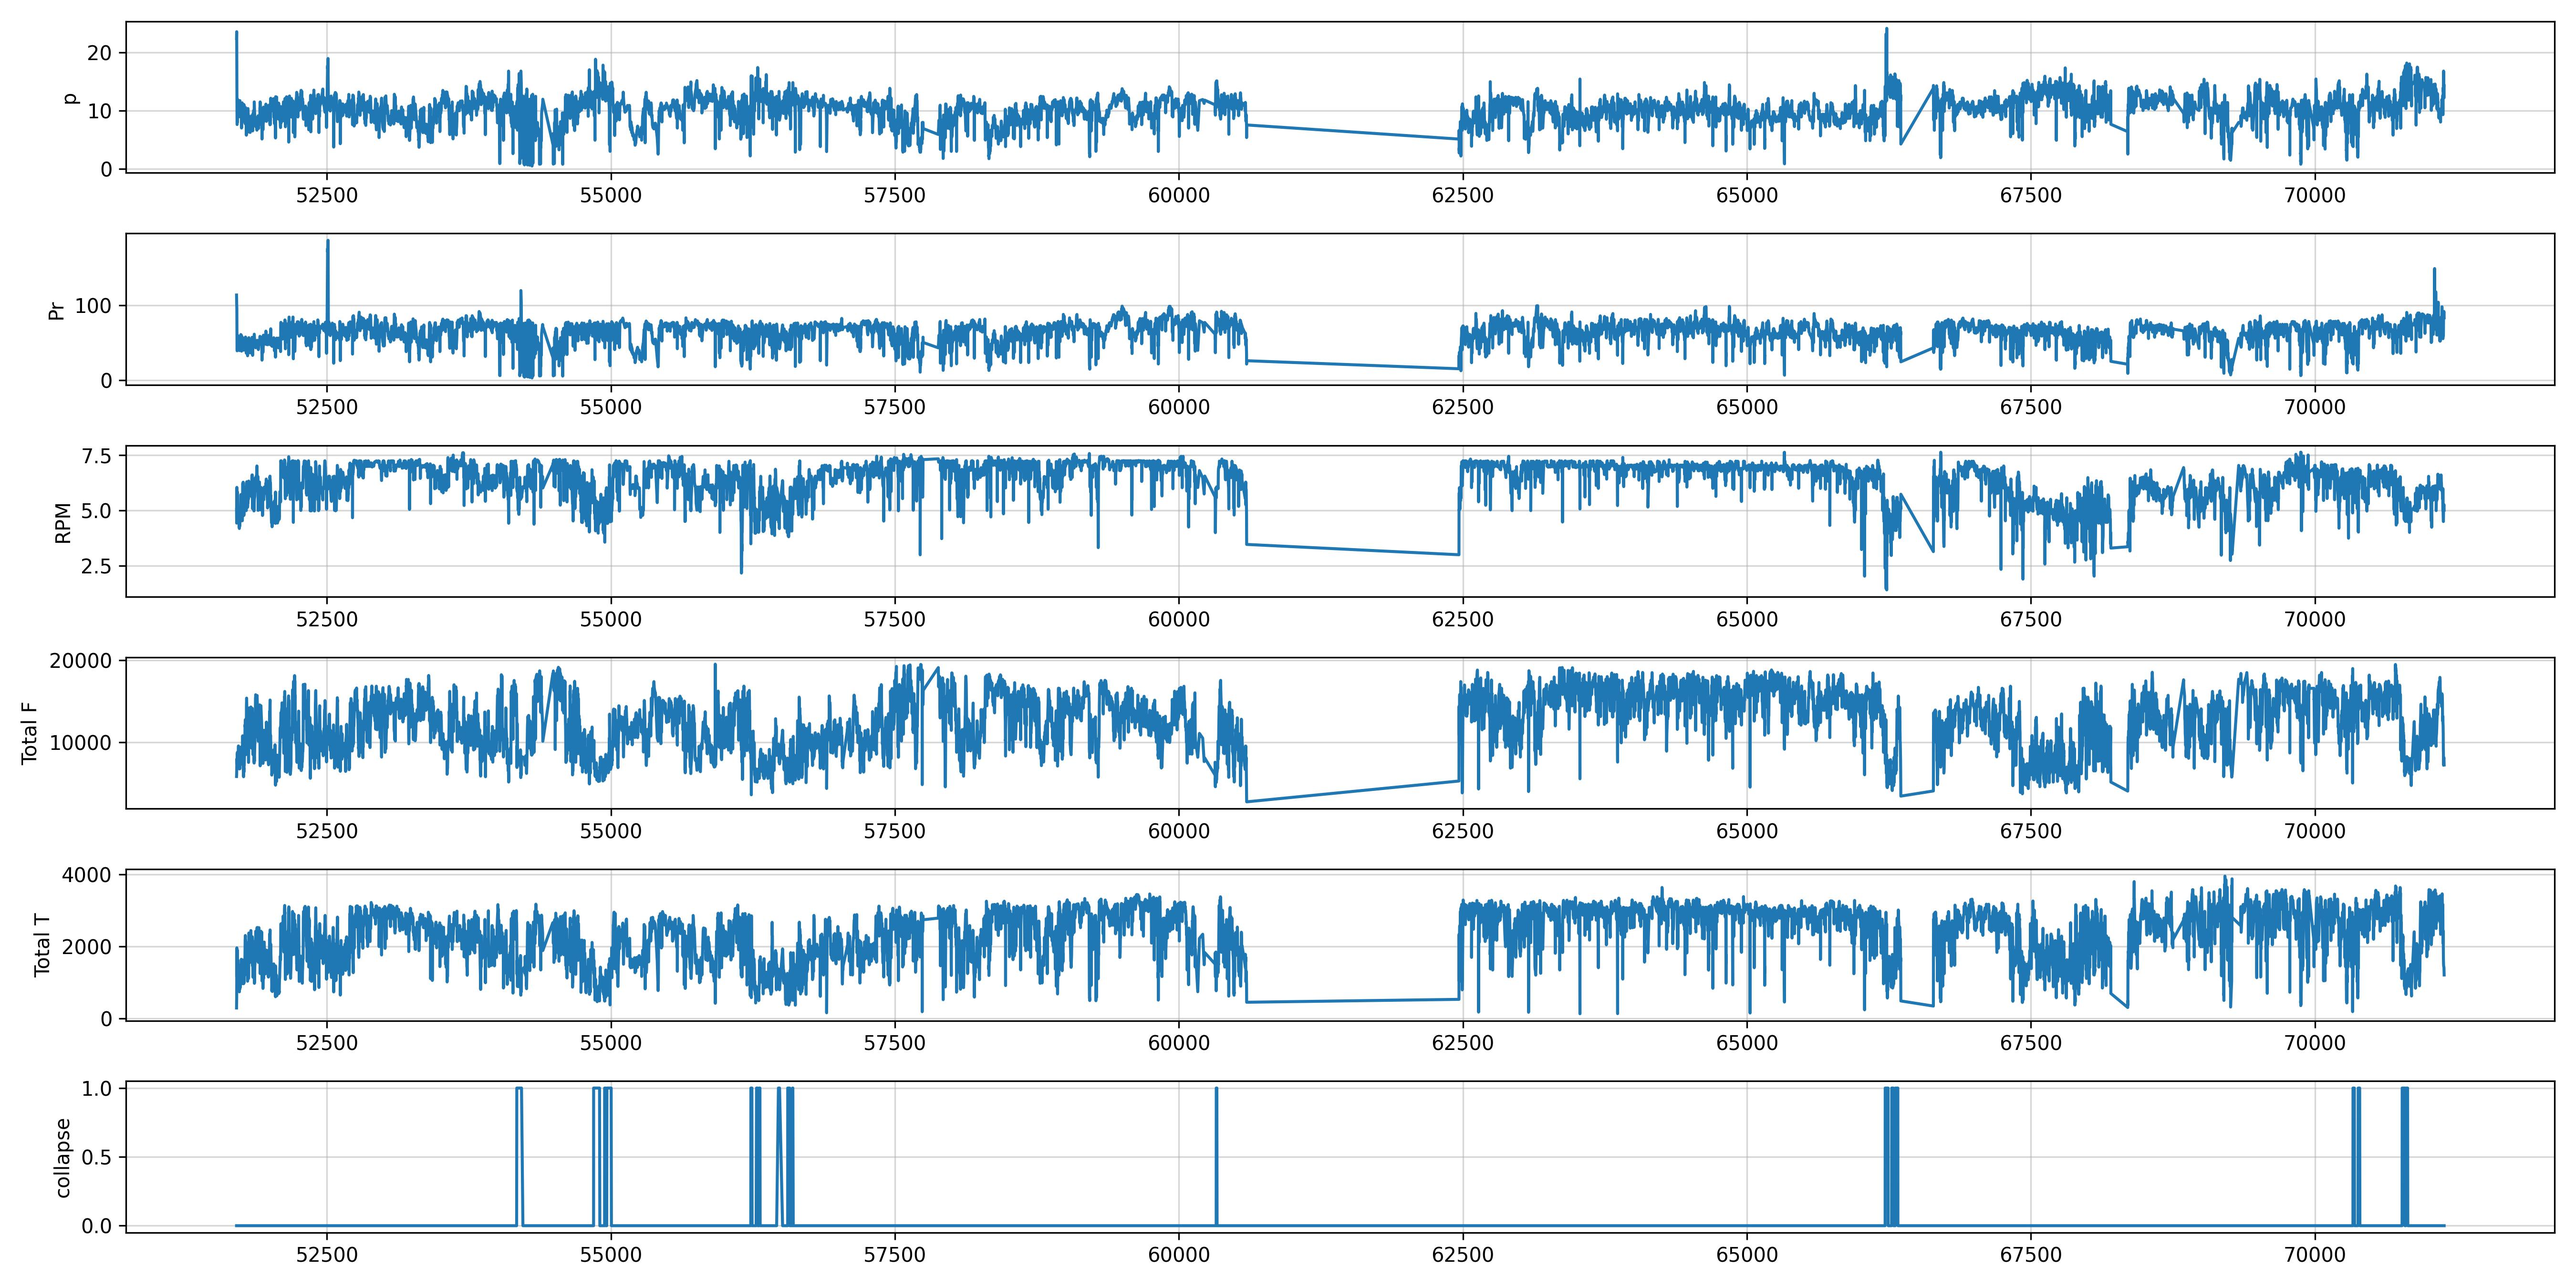
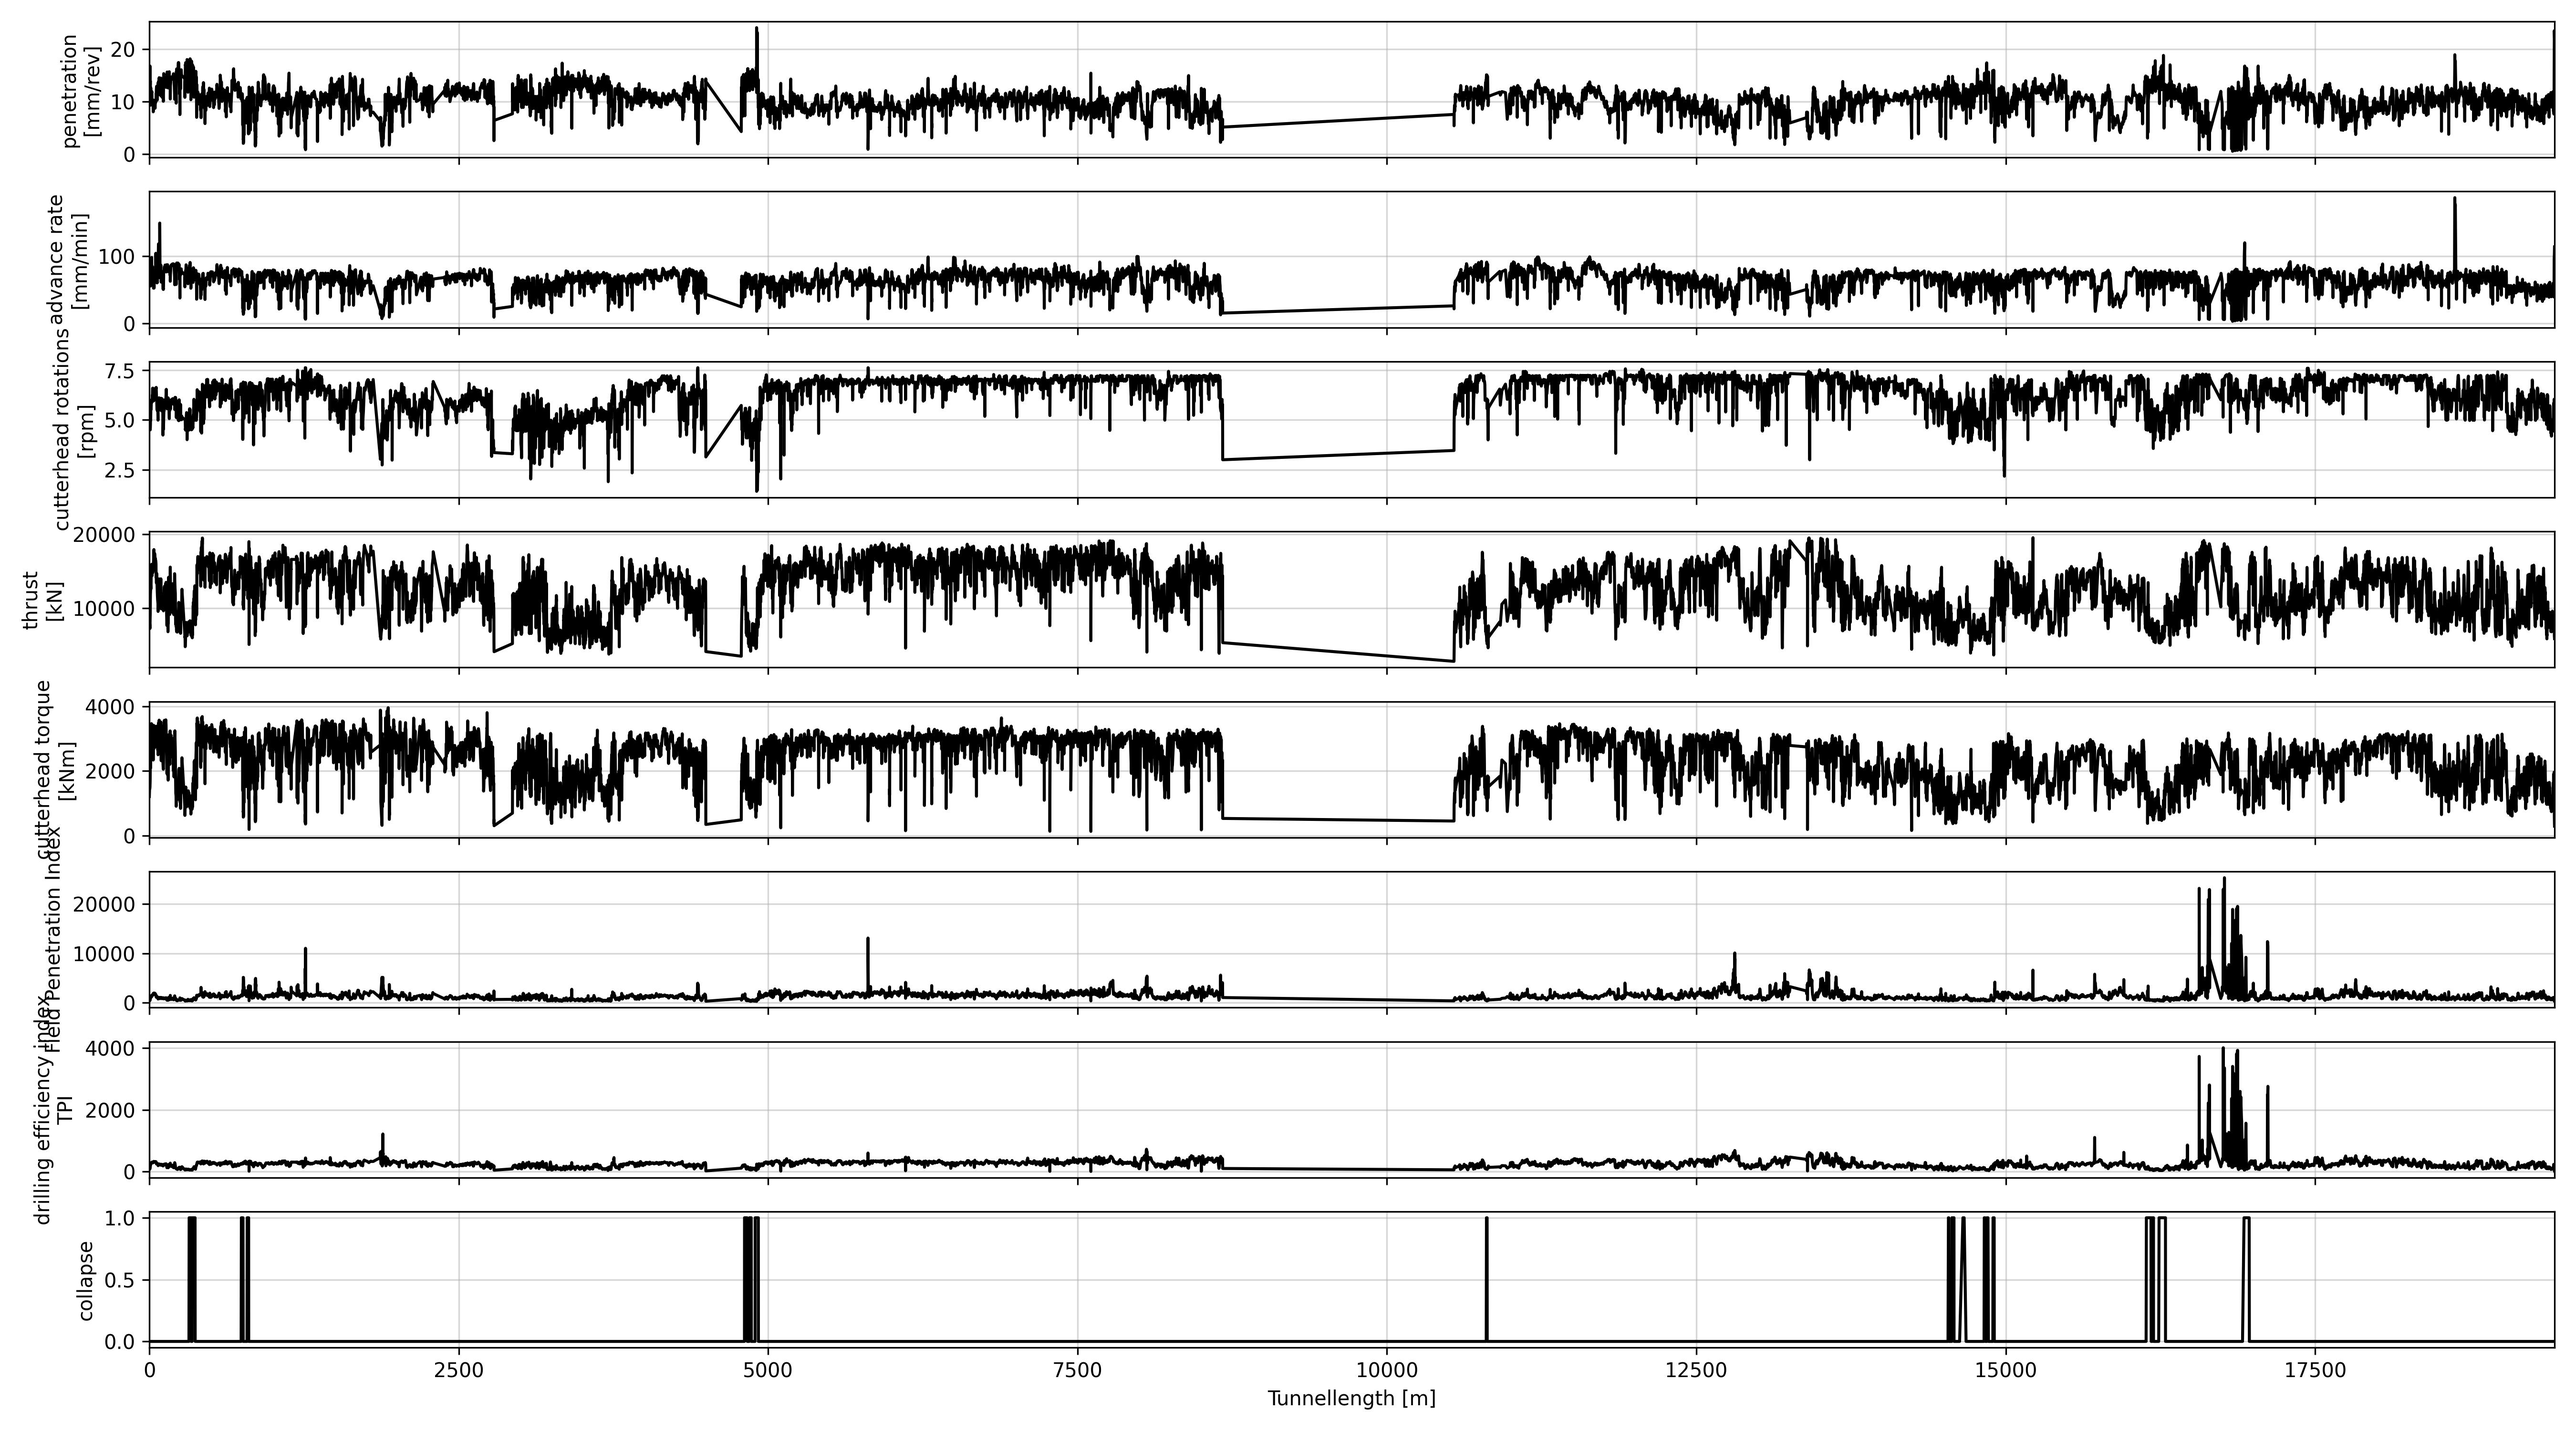
Add ML prediction and plots for tunnel collapse analysis
Introduced data discretization, collapse section assignment, and machine learning prediction using HistGradientBoostingClassifier. Added plotting for line plots, pair plots, and confusion matrix, saving the resulting images. Improved data preprocessing, feature selection, and visualization for tunnel collapse analysis.

Changed region(s): [[0.0, 0.0, 0.9956, 0.9956]]

diff --git a/src/A_main.py b/src/A_main.py
@@ -1,8 +1,16 @@
 
+import sys, os
+from tqdm import tqdm
+
 import matplotlib.pyplot as plt
 import numpy as np
 import pandas as pd
-from sklearn.ensemble import RandomForestClassifier
+from sklearn.ensemble import RandomForestClassifier, HistGradientBoostingClassifier
+from sklearn.model_selection import train_test_split
+from sklearn.metrics import accuracy_score, confusion_matrix
+
+# ensure that the correct starting location for the script is set
+sys.path.append(os.path.dirname(__file__))
 
 from X_library import dictionaries
 
@@ -12,9 +20,50 @@ from X_library import dictionaries
 ################################
 
 
+def discretize(dataframe: pd.DataFrame, interval: float, columns: list,
+               chain_col: str) -> pd.DataFrame:
+    """
+    XXXXX
+    """
+    columns = columns + ['collapse']
+    # Ensure we’re working on a copy
+    data = dataframe.copy()
+
+    intervals = np.arange(data[chain_col].min(), data[chain_col].max(),
+                          interval)
+    df_temps = []
+
+    for i in tqdm(range(len(intervals)-1)):
+        tl_start, tl_stop = intervals[i], intervals[i+1]
+        mask = (data[chain_col] >= tl_start) & (data[chain_col] < tl_stop)
+        chunk = data.loc[mask, columns]
+
+        if len(chunk) == 1:
+            s = chunk.iloc[0].copy()
+            n_dp = 1
+        elif len(ids) > 1:
+            s = chunk.mean(axis=0)
+            s['collapse'] = round(s['collapse'], 0)
+            n_dp = len(chunk)
+        else:
+            # empty -> NaNs for the requested columns
+            s = pd.Series(index=columns, dtype='float64')
+            n_dp = 0
+
+        # Add bin metadata
+        s['start [m]'] = tl_start
+        s['stop [m]'] = tl_stop
+        s['n dp'] = n_dp
+        df_temps.append(s)
+
+    return pd.DataFrame(df_temps).reset_index(drop=True)
+
+
 def plot_param(ax, dataframe, parameter):
-    ax.plot(dataframe['Chainage'], dataframe[parameter])
+    ax.plot(dataframe['Tunnellength [m]'], dataframe[parameter], color='black')
     ax.set_ylabel(parameter)
+    ax.set_xlim(left=dataframe['Tunnellength [m]'].min(),
+                right=dataframe['Tunnellength [m]'].max())
     # ax.legend()
     ax.grid(alpha=0.5)
 
@@ -23,8 +72,30 @@ def plot_param(ax, dataframe, parameter):
 # Static variables
 ################################
 
+# data from paper "Diagnosing tunnel collapse sections based on TBM tunneling
+# big data and deep learning: A case study on the Yinsong Project, China" by
+# Chen et al. (2021)
+
 DATA_FOLDER = r'C:\Users\GEr\OneDrive - NGI\Research\UIDC2026_NGI\YS-IWHR-main\The data analyzed in section 5&6'
 ANALYSES_FOLDER = r'C:\Users\GEr\OneDrive - NGI\Research\UIDC2026_NGI\analyses'
+COLLAPSE_EXCEL = r'C:\Users\GEr\OneDrive - NGI\Research\UIDC2026_NGI\data\collapses.xlsx'
+INPUT_FEATURES = [
+    'T(P,V/N)-b1', 'T(P,V/N)-b2', 'T(P,V/N)-a', 'T(P,V/N)-R2',
+                  'T(V/N)-b', 'T(V/N)-a', 'T(V/N)-R2', 'P(V)-slope', 'P(V)-a',
+                  'P(V)-R2', 'Wp(WT)-slope', 'Wp(WT)-a', 'Wp(WT)-R2',
+                   'T(P)-slope', 'T(P)-a', 'T(P)-R2', 'T-m', 'T-slope', 'T-R2',
+                   'P-m', 'P-slope', 'P-R2', 'V-m', 'V-slope', 'V-R2',
+                   'Vs-m', 'Vs-slope', 'TN-m', 'TN-slope', 'TN-R2', 'PV-m',
+                   'PV-slope', 'PV-R2', 'V/N-m', 'V/N-slope', 'V/N-R2',
+                   'N-m', 'Ns-m', 'I-m', 'V0-m', 'V/Vs-min', 'T/P-min',
+                   'T/P-max', 'T/P-m', 'T/P-std', 'Tpi-min', 'Tpi-max',
+                   'Tpi-m', 'Tpi-std', 'Fpi-min', 'Fpi-max', 'Fpi-m',
+                   'Fpi-std', 'Tpi-slope', 'Tpi-R2:1-sse/sst', 'WT/WP-slope',
+                   'WT/WP-R2:1-sse/sst', 'T(P*V/N)-slope', 'T(P*V/N)-a',
+                   'T(P*V/N)-R2', 'Fpi', 'P*V/N', 'T/P', 'Tpi', 'dt', 'dz',
+                   'workP', 'workT',
+                    'Total T', 'Total F', 'RPM', 'Pr', 'p'
+                    ]
 
 
 ################################
@@ -49,55 +120,83 @@ df.sort_values(by='Chainage', ascending=False, inplace=True)
 df.index = np.arange(len(df))
 
 # assign collapse sections to data
+df_collapses = pd.read_excel(COLLAPSE_EXCEL)
 df['collapse'] = 0
-
-df_collapses = pd.read_excel(r'C:\Users\GEr\OneDrive - NGI\Research\UIDC2026_NGI\data\collapses.xlsx')
-
 for i in range(len(df_collapses)):
     ids = df[(df['Chainage'] <= df_collapses.iloc[i]['Chainage start [m]']) & 
              (df['Chainage'] >= df_collapses.iloc[i]['Chainage end [m]'])].index
     df.loc[ids, 'collapse'] = 1
 
+# get tunnellength starting from 0 for conveniance
+df['Tunnellength [m]'] = df['Chainage'] - df['Chainage'].min()
+df['Tunnellength [m]'] = (df['Tunnellength [m]'] - df['Tunnellength [m]'].max()) * -1
+
+# discretize dataset
+# df_disc = discretize(df, 1, INPUT_FEATURES, chain_col='Tunnellength [m]')
+# df_disc = df_disc[df_disc['n dp'] > 0]
+# df = df_disc
+# print(np.unique(df_disc['collapse'], return_counts=True))
 
 ################################
 # prediction
 ################################
 
-classifier = RandomForestClassifier()
+X = df[INPUT_FEATURES].values
+y = df['collapse'].values
 
-print(ghjklø)
+print(np.unique(y, return_counts=True))
 
+X_train, X_test, y_train, y_test = train_test_split(
+    X, y, test_size=0.33, random_state=42)
+
+clf = HistGradientBoostingClassifier()
+# clf = RandomForestClassifier()
+
+clf.fit(X_train, y_train)
+
+y_pred = clf.predict(X_test)
+
+print(accuracy_score(y_test, y_pred))
+
+cm = np.round(confusion_matrix(y_test, y_pred, normalize='true') * 100, 0)
+print(cm)
 
 ################################
 # plotting
 ################################
 
+# rename column names to be more readable
+df.rename({'p': 'penetration\n[mm/rev]',
+           'Pr': 'advance rate\n[mm/min]',
+           'RPM': 'cutterhead rotations\n[rpm]',
+           'Total T': 'cutterhead torque\n[kNm]',
+           'Total F': 'thrust\n[kN]',
+           'Fpi': 'Field Penetration Index',
+           'Tpi': 'drilling efficiency index\nTPI'}, axis=1, inplace=True)
 
 # lineplot
-fig, axs = plt.subplots(ncols=1, nrows=6, figsize=(18, 9))
+fig, axs = plt.subplots(ncols=1, nrows=8, figsize=(18, 10), sharex=True)
 
-plot_param(axs[0], df, 'p')
-
-plot_param(axs[1], df, 'Pr')
-
-plot_param(axs[2], df, 'RPM')
-
-plot_param(axs[3], df, 'Total F')
-
-plot_param(axs[4], df, 'Total T')
-
-plot_param(axs[5], df, 'collapse')
+plot_param(axs[0], df, 'penetration\n[mm/rev]')
+plot_param(axs[1], df, 'advance rate\n[mm/min]')
+plot_param(axs[2], df, 'cutterhead rotations\n[rpm]')
+plot_param(axs[3], df, 'thrust\n[kN]')
+plot_param(axs[4], df, 'cutterhead torque\n[kNm]')
+plot_param(axs[5], df, 'Field Penetration Index')
+plot_param(axs[6], df, 'drilling efficiency index\nTPI')
+plot_param(axs[7], df, 'collapse')
+axs[7].set_xlabel('Tunnellength [m]')
 
 plt.tight_layout()
 plt.savefig(fr'{ANALYSES_FOLDER}\00_lineplot.jpg', dpi=300)
 plt.show()
 
-print('\n')
 
 # scatterplot
-
-
-parameters = ['p', 'Pr', 'RPM', 'Total F', 'Total T']
+parameters = ['penetration\n[mm/rev]', 'advance rate\n[mm/min]',
+              'cutterhead rotations\n[rpm]', 'thrust\n[kN]',
+              'cutterhead torque\n[kNm]', 'Field Penetration Index',
+              'drilling efficiency index\nTPI']
 
 n_params = len(parameters)
 n_figure = 1
@@ -108,21 +207,54 @@ for i in range(n_params):
     for j in range(n_params):
         ax = fig.add_subplot(n_params, n_params, n_figure)
         if parameters[i] == parameters[j]:
-            ax.hist(df_advance[parameters[i]], color='grey',
-                    bins=30, edgecolor='black')
+            ax.hist(df[parameters[i]], color='grey', bins=30,
+                    edgecolor='black')
         else:
-            ax.scatter(df_advance[parameters[i]],
-                        df_advance[parameters[j]], color='grey',
-                        edgecolor='black', alpha=0.3, s=1)
+            df_collaps = df[df['collapse'] == 1]
+            df_regular = df[df['collapse'] != 1]
+            ax.scatter(df_regular[parameters[i]], df_regular[parameters[j]],
+                       color='grey', edgecolor='black', alpha=0.3, s=1)
+            ax.scatter(df_collaps[parameters[i]], df_collaps[parameters[j]],
+                       color='red', alpha=1, s=2)
             ax.set_ylabel(parameters[j].replace(' [', '\n['),
-                            fontsize=fsize)
+                          fontsize=8)
         ax.set_xlabel(parameters[i].replace(' [', '\n['),
-                        fontsize=fsize)
-        ax.tick_params(axis='both', labelsize=fsize)
+                        fontsize=8)
+        ax.tick_params(axis='both', labelsize=8)
         n_figure += 1
 
-fig.suptitle(f'TBM {TBM}', y=0.99)
+plt.tight_layout()
+plt.savefig(fr'{ANALYSES_FOLDER}\01_pairplot.jpg', dpi=300)
+plt.show()
+
+
+# confusion matrix
+fig, ax = plt.subplots(figsize=(5, 5))
+im = ax.imshow(cm, interpolation='nearest', cmap=plt.cm.Greys)
+plt.colorbar(im, ax=ax, fraction=0.046, pad=0.04)
+
+# Labels
+classes = ['regular\nexcavation', 'collapse']
+ax.set(
+    xticks=np.arange(len(classes)),
+    yticks=np.arange(len(classes)),
+    xticklabels=classes,
+    yticklabels=classes,
+    ylabel='True label',
+    xlabel='Predicted label',
+    title='Binary Confusion Matrix'
+)
+
+plt.setp(ax.get_xticklabels(), rotation=45, ha="right", rotation_mode="anchor")
+
+# Annotate cells with percentages
+for i in range(cm.shape[0]):
+    for j in range(cm.shape[1]):
+        percent = cm[i, j]
+        ax.text(j, i, f"({percent:.1f}%)", ha="center", va="center",
+                color="white" if cm[i, j] > 0.5 else "black")
 
 plt.tight_layout()
+plt.savefig(fr'{ANALYSES_FOLDER}\02_confusionmatrix.jpg', dpi=300)
 plt.show()
 
